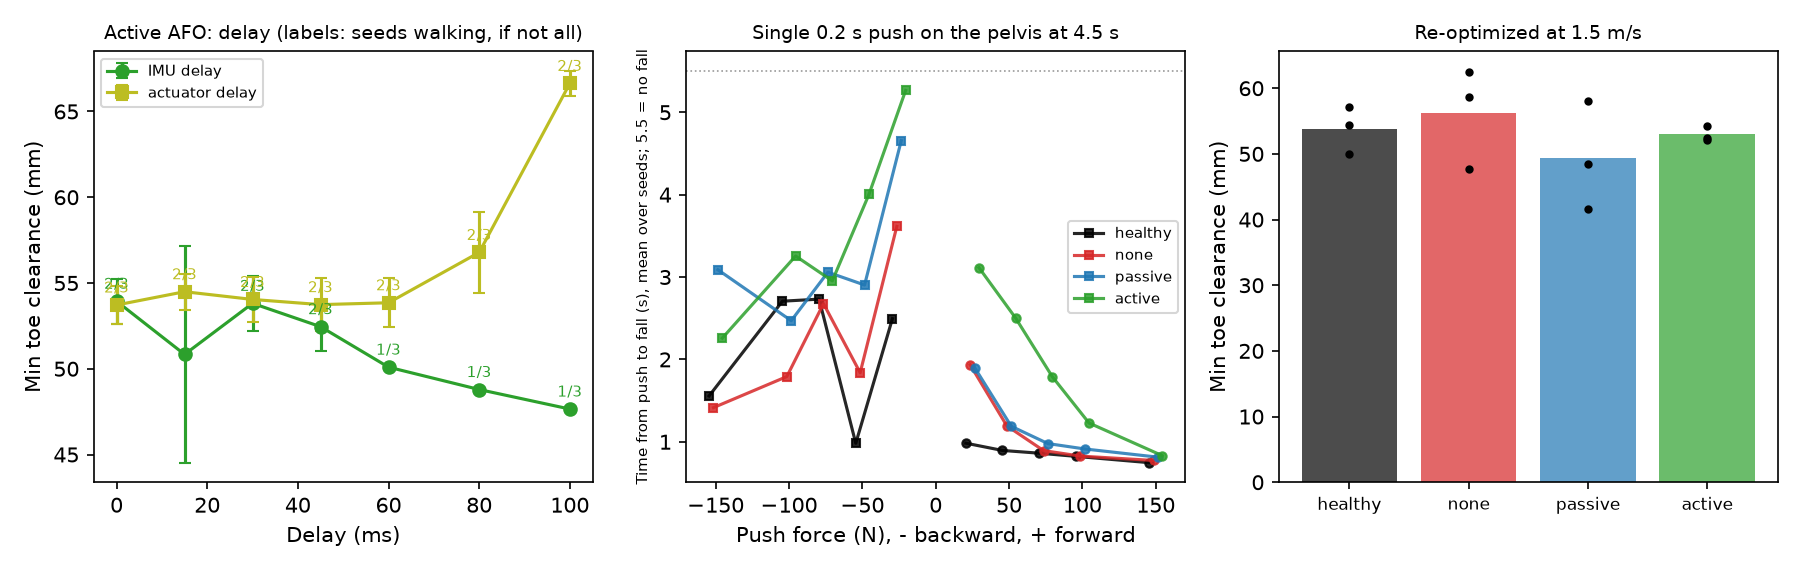
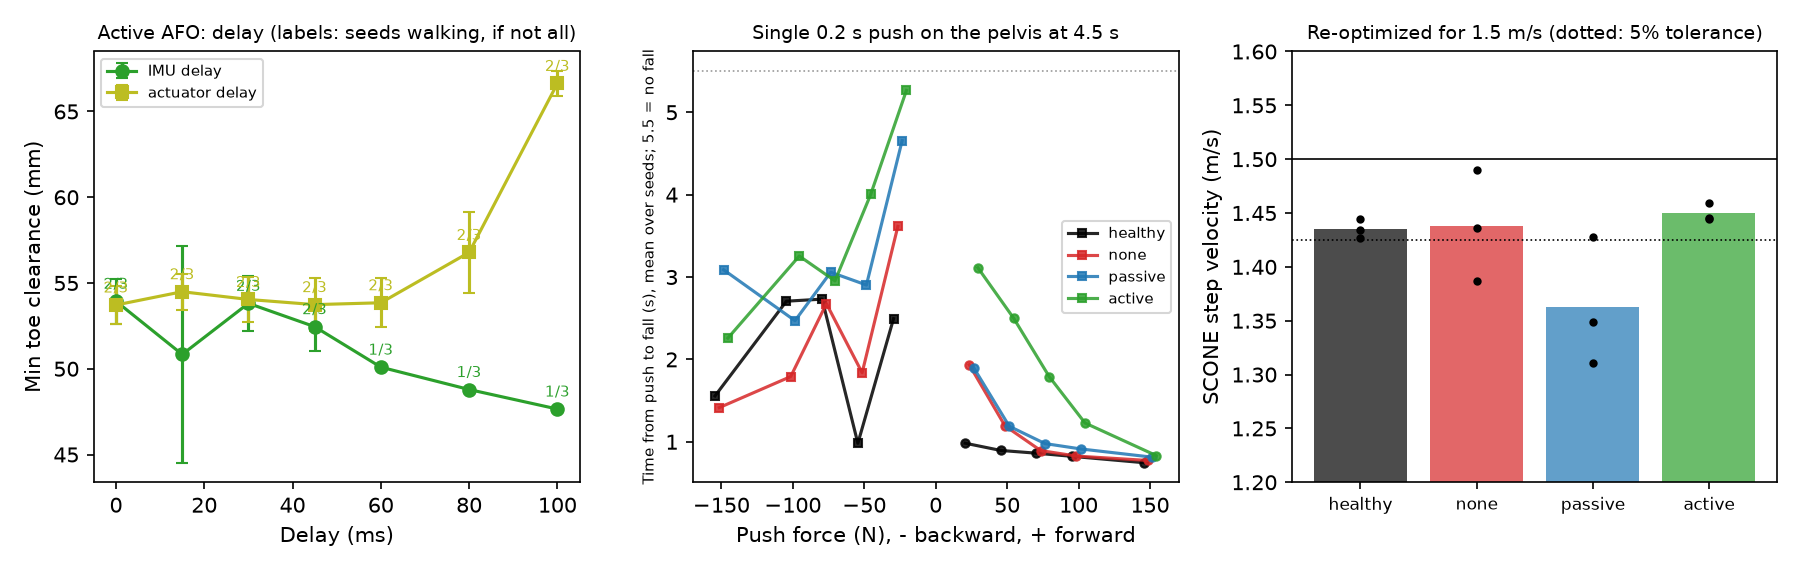
Plot SCONE step velocity in the 1.5 m/s panel
The dotted line marks 5% below 1.5 m/s on the mean step velocity.

diff --git a/analysis/part_f5.py b/analysis/part_f5.py
@@ -44,6 +44,7 @@ from __future__ import annotations
 import argparse
 import json
 import math
+import re
 from dataclasses import replace
 
 import matplotlib
@@ -145,6 +146,8 @@ def cmd_speed_runs(level: float) -> None:
 def row_for(sto, report, **keys) -> dict:
     row = summarize(sto, report)
     row.update(keys)
+    m = re.search(r"step_velocity\s*=\s*([-\d.eE+]+)", report)
+    row["scone_step_velocity_mps"] = float(m.group(1)) if m else math.nan
     row["walks"] = is_walking(row)
     if row["walks"]:
         row.update(device_metrics(sto, find_strides(sto, "r", skip_first=2)))
@@ -318,14 +321,17 @@ def plot(df: pd.DataFrame) -> None:
     for i, (dev, g) in enumerate(sp.groupby("device", sort=False)):
         w = g[g.walks]
         if len(w):
-            ax.bar(i, w[TOE].mean(), color=COLORS[dev], alpha=0.7)
-            ax.plot(np.full(len(w), i), w[TOE], "k.")
+            ax.bar(i, w.scone_step_velocity_mps.mean(), color=COLORS[dev], alpha=0.7)
+            ax.plot(np.full(len(w), i), w.scone_step_velocity_mps, "k.")
         if (~g.walks).any():
-            ax.text(i, 1, f"{int((~g.walks).sum())} fell", rotation=90, fontsize=7, ha="center", va="bottom")
+            ax.text(i, 1.21, f"{int((~g.walks).sum())} fell", rotation=90, fontsize=7, ha="center", va="bottom")
+    ax.axhline(1.5, color="k", lw=0.8)
+    ax.axhline(0.95 * 1.5, color="k", lw=0.8, ls=":")
+    ax.set_ylim(1.2, 1.6)
     ax.set_xticks(range(sp.device.nunique()) if len(sp) else [])
     ax.set_xticklabels(list(dict.fromkeys(sp.device)) if len(sp) else [], fontsize=8)
-    ax.set_ylabel("Min toe clearance (mm)")
-    ax.set_title("Re-optimized at 1.5 m/s", fontsize=9)
+    ax.set_ylabel("SCONE step velocity (m/s)")
+    ax.set_title("Re-optimized for 1.5 m/s (dotted: 5% tolerance)", fontsize=9)
     fig.tight_layout()
     fig.savefig(FIGURE, dpi=150)
 
